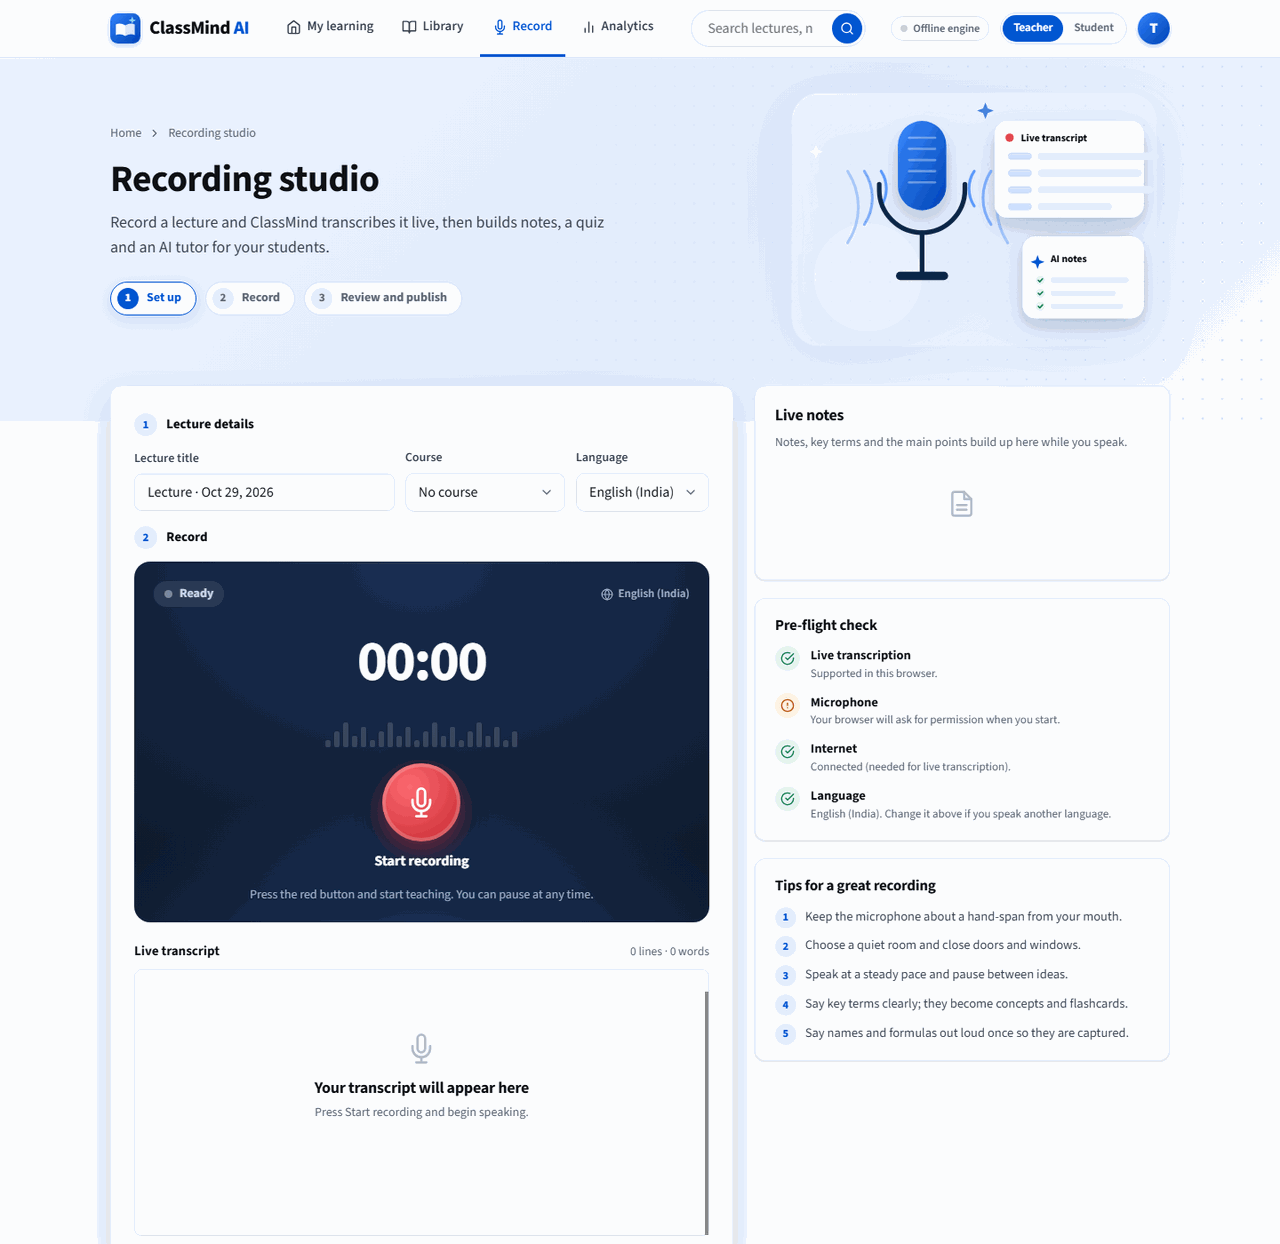
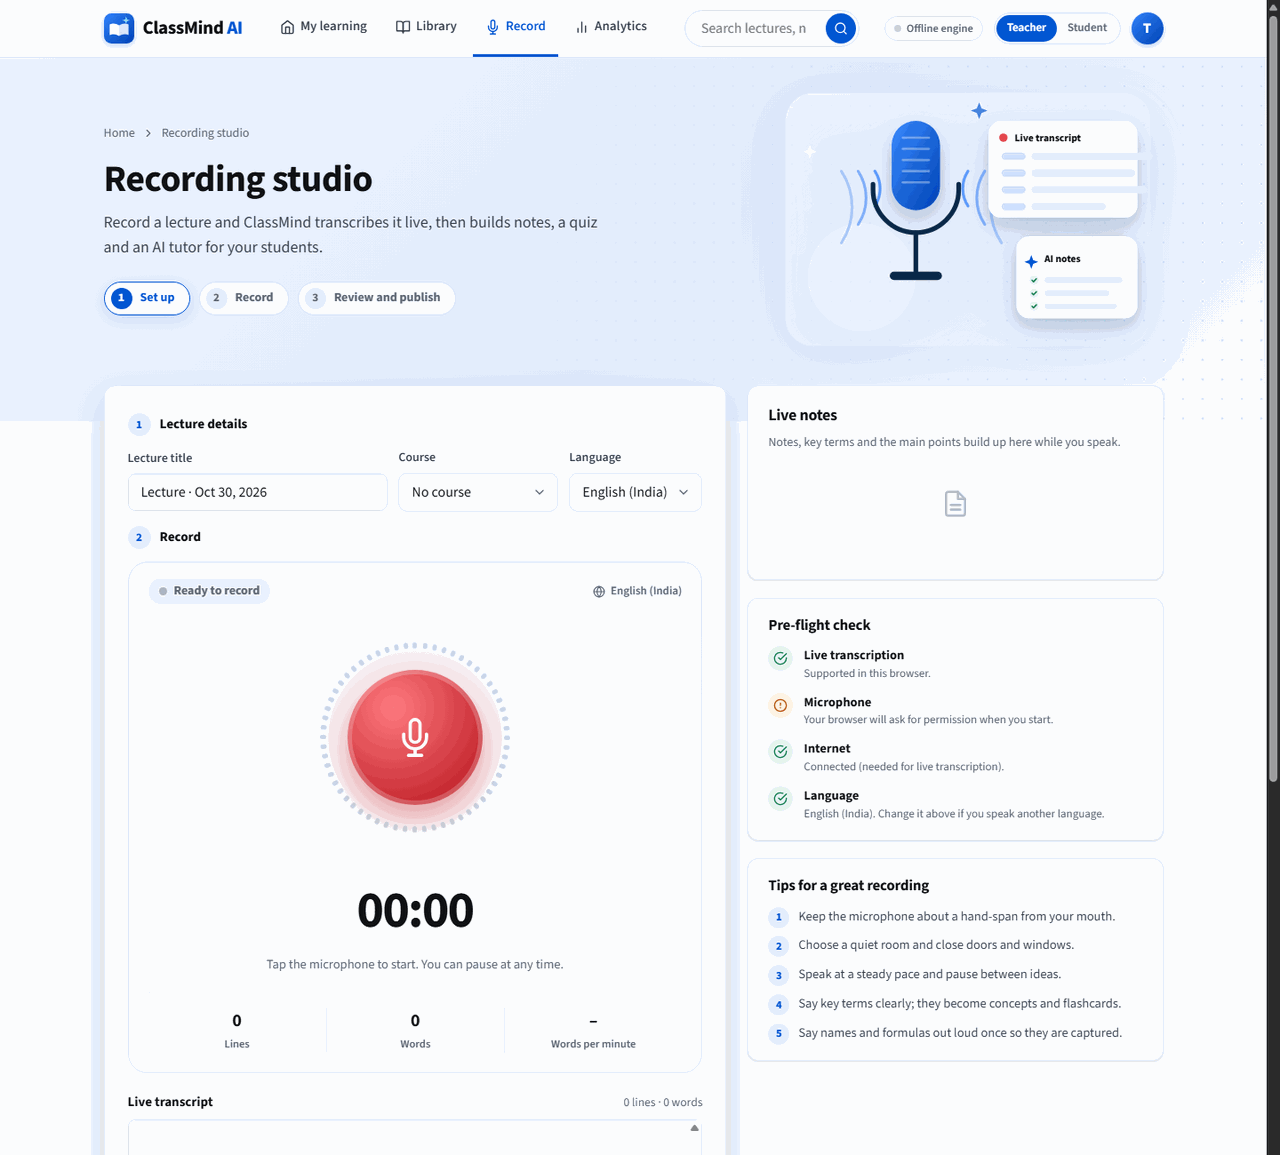
feat: add styles for lecture rows and faculty profile cards in home.css

diff --git a/frontend/src/styles/home.css b/frontend/src/styles/home.css
@@ -87,3 +87,43 @@
   .hero h1 { font-size: 30px; }
   .hero-points { gap: 8px 16px; font-size: 13px; }
 }
+
+/* ---- lecture rows v2 ---- */
+.lecture-row { grid-template-columns: 176px minmax(0, 1fr) auto; gap: 22px; padding: 16px 22px; transition: background .15s; }
+.lecture-row .thumb { height: 108px; border-radius: 12px; overflow: hidden; }
+.lecture-course { display: block; font-size: 12px; font-weight: 700; letter-spacing: .07em; text-transform: uppercase; margin-bottom: 4px; color: var(--brand); }
+.lecture-row h3 { font-size: 18px; line-height: 1.3; margin-bottom: 6px; transition: color .15s; }
+.lecture-row:hover h3 { color: var(--brand); }
+.lecture-row .meta-row { gap: 6px 16px; font-size: 13.5px; color: var(--ink-3, #667085); margin-top: 0; }
+.lecture-row .snippet { margin-top: 8px; font-size: 14px; line-height: 1.5; display: -webkit-box; -webkit-line-clamp: 2; -webkit-box-orient: vertical; overflow: hidden; }
+.lecture-row .end { display: flex; align-items: center; gap: 14px; }
+.lecture-go { width: 32px; height: 32px; border-radius: 50%; display: grid; place-items: center; color: var(--ink-3, #667085); background: #f1f4f9; transition: background .15s, color .15s, transform .15s; }
+.lecture-row:hover .lecture-go { background: var(--brand); color: #fff; transform: translateX(2px); }
+@media (max-width: 900px) { .lecture-row { grid-template-columns: 132px minmax(0, 1fr); } .lecture-row .thumb { height: 92px; } .lecture-row .end { display: none; } }
+@media (max-width: 560px) { .lecture-row { grid-template-columns: 84px minmax(0, 1fr); padding: 14px; gap: 14px; } .lecture-row .thumb { height: 72px; border-radius: 10px; } .lecture-row h3 { font-size: 16px; } }
+
+/* ---- faculty profile cards ---- */
+.avatar-portrait { display: block; border-radius: 50%; flex-shrink: 0; box-shadow: 0 0 0 3px rgba(255, 255, 255, .9), 0 2px 8px rgba(15, 23, 42, .2); background: #fff; }
+.course-card .by .avatar-portrait { box-shadow: 0 0 0 2px #fff, 0 1px 4px rgba(15, 23, 42, .2); }
+.faculty-grid2 { display: grid; grid-template-columns: repeat(4, 1fr); gap: 20px; }
+.fcard { position: relative; display: flex; flex-direction: column; background: #fff; border: 1px solid #e3e9f2; border-radius: 18px; overflow: hidden; box-shadow: var(--shadow-sm); transition: box-shadow .18s, transform .18s; }
+.fcard:hover { box-shadow: var(--shadow-lg); transform: translateY(-3px); }
+.fcard-banner { position: relative; height: 92px; overflow: hidden; }
+.fcard-banner::before { content: ""; position: absolute; inset: 0; background: radial-gradient(circle at 18% 120%, rgba(255, 255, 255, .22), transparent 55%), radial-gradient(circle at 85% -10%, rgba(255, 255, 255, .18), transparent 45%); }
+.fcard-banner .thumb-art { position: absolute; right: -4%; top: 0; width: 70%; height: 100%; opacity: .5; }
+.fcard-avatar { display: flex; justify-content: center; margin-top: -46px; position: relative; z-index: 1; }
+.fcard-avatar .avatar-portrait { box-shadow: 0 0 0 5px #fff, 0 8px 20px rgba(15, 23, 42, .2); }
+.fcard-body { padding: 14px 20px 8px; text-align: center; flex: 1; display: flex; flex-direction: column; align-items: center; }
+.fcard-body h3 { font-size: 18px; margin-bottom: 4px; }
+.fcard-role { margin: 0; font-weight: 700; color: var(--brand); font-size: 14px; }
+.fcard-dept { margin: 2px 0 0; color: var(--muted); font-size: 13.5px; line-height: 1.4; }
+.fcard-stats { display: grid; grid-template-columns: repeat(3, 1fr); width: 100%; margin: 16px 0 14px; padding: 12px 0; border-top: 1px solid var(--line-2); border-bottom: 1px solid var(--line-2); }
+.fcard-stats div { display: flex; flex-direction: column; gap: 1px; }
+.fcard-stats div + div { border-left: 1px solid var(--line-2); }
+.fcard-stats b { font-size: 18px; color: var(--ink); }
+.fcard-stats span { font-size: 12px; color: var(--muted); font-weight: 600; }
+.fcard .faculty-courses { justify-content: center; margin: 0 0 8px; }
+.fcard-link { display: flex; align-items: center; justify-content: center; gap: 6px; padding: 13px; margin-top: auto; border-top: 1px solid var(--line-2); font-weight: 700; font-size: 14.5px; color: var(--brand); background: #fafcff; transition: background .15s; }
+.fcard-link:hover { background: var(--brand-tint); text-decoration: none; }
+@media (max-width: 1100px) { .faculty-grid2 { grid-template-columns: repeat(2, 1fr); } }
+@media (max-width: 640px) { .faculty-grid2 { grid-template-columns: 1fr; gap: 16px; } }
